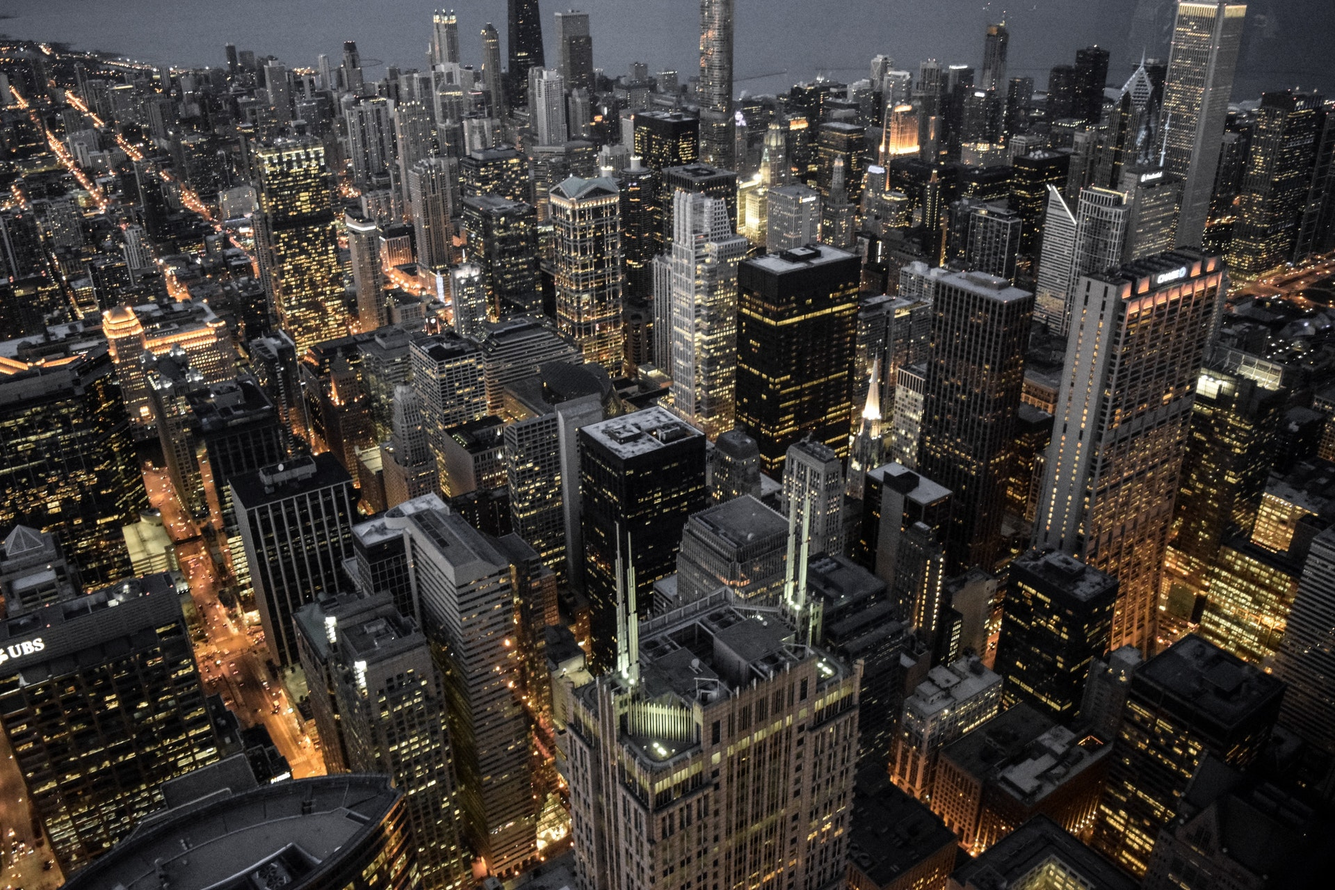
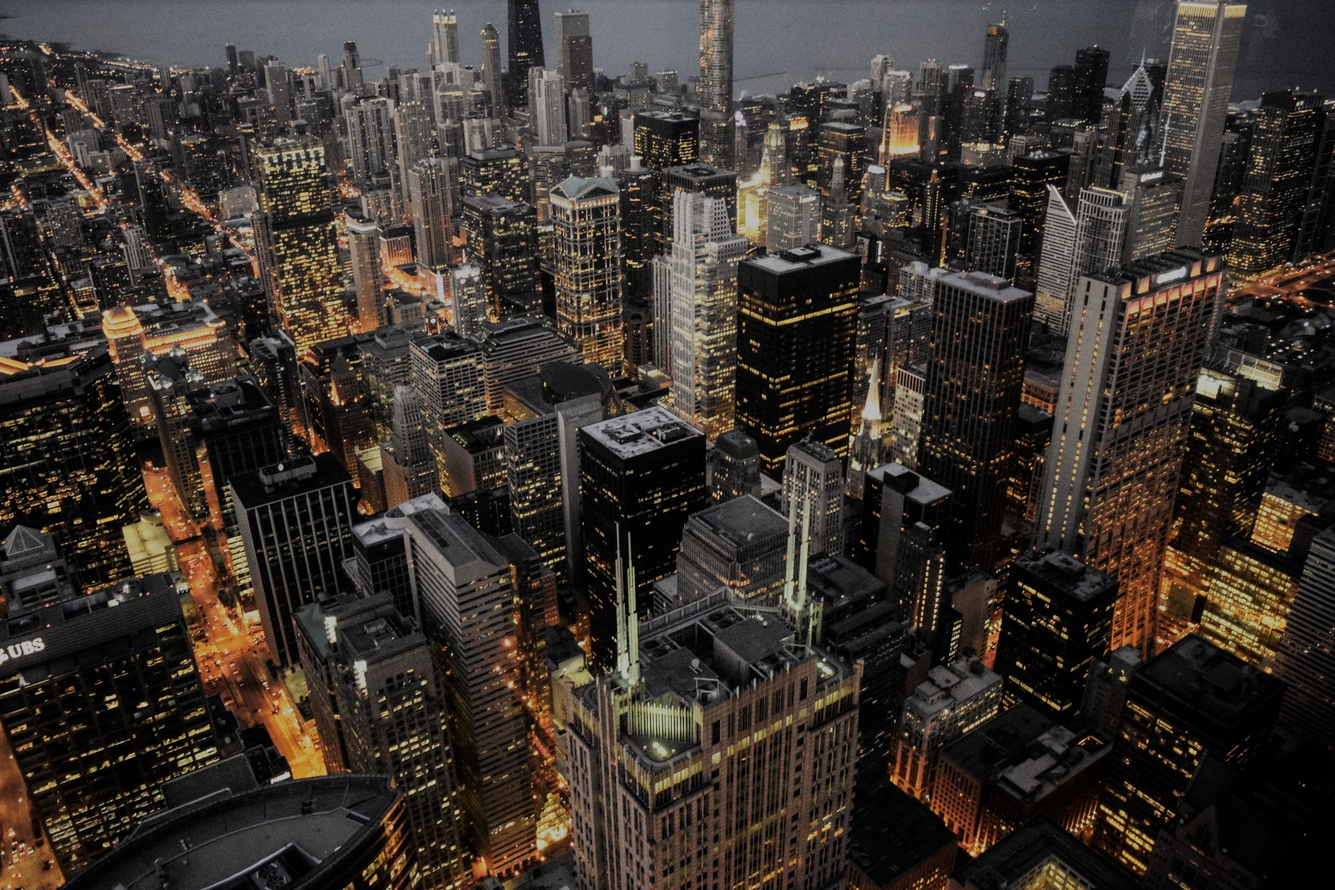
final & Full responsive

diff --git a/assets/css/style.css b/assets/css/style.css
@@ -91,7 +91,7 @@ p {
 
 .btn-dark {
     background: #333;
-    border: none;
+    border: none
     color: #fff;
 }
 
@@ -151,13 +151,6 @@ p {
     align-items: center;
     height: 100%;
     padding: 0 2rem;
-    /* Overlay */
-    position: absolute;
-    top: 65px;
-    left:0;
-    right: 0;
-    bottom: 0;
-    background-color: rgba(0,0,0,0.4);
   }
 
   /* Section: What We Do */

diff --git a/assets/css/mobile.css b/assets/css/mobile.css
@@ -35,10 +35,6 @@
         padding: 0.5rem;
     }
 
-    #showcase .showcase-content {
-        top: 111px;
-    } 
-
     #who {
         display: block;
     }
@@ -66,11 +62,6 @@
 }
 
 @media(max-height: 568px) {
-    #showcase .showcase-content {
-        top: 141px;
-        margin-top: -2rem;
-    }
-
     .l-heading {
         font-size: 3rem;
     }
